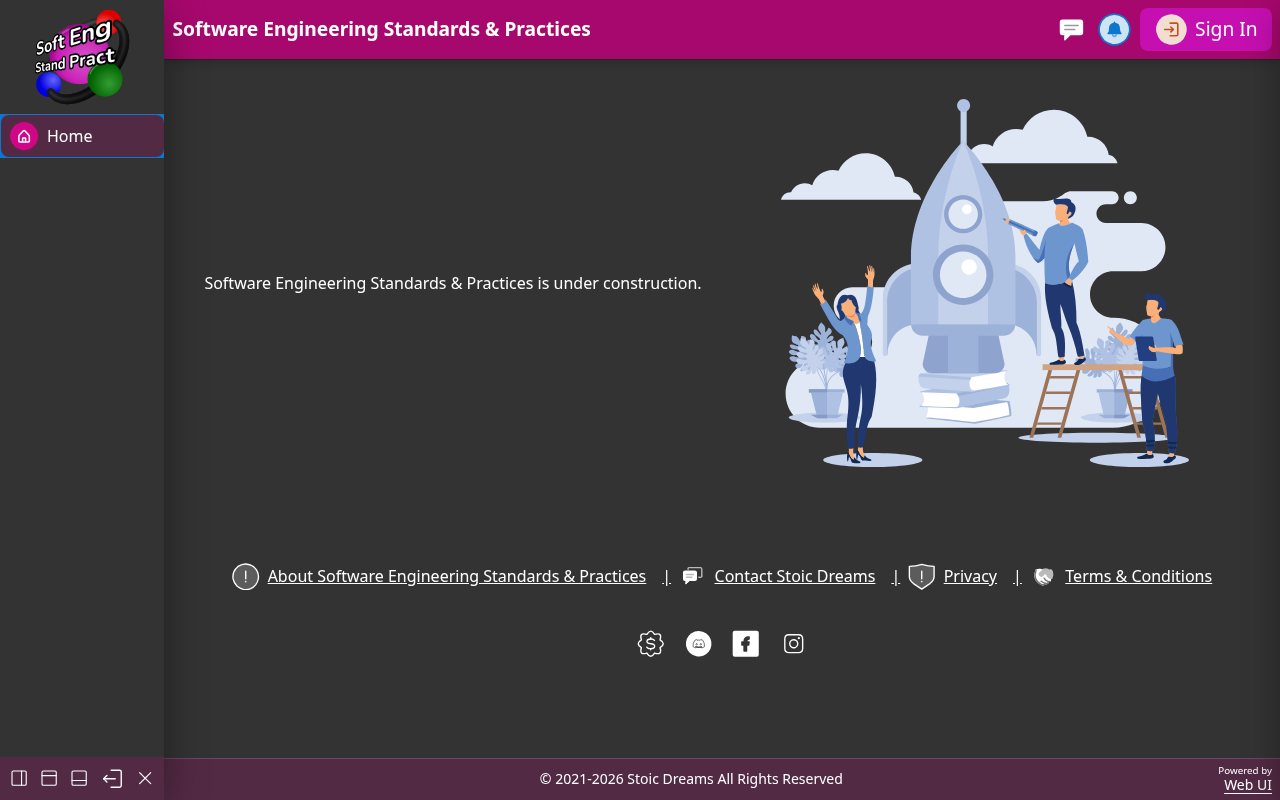
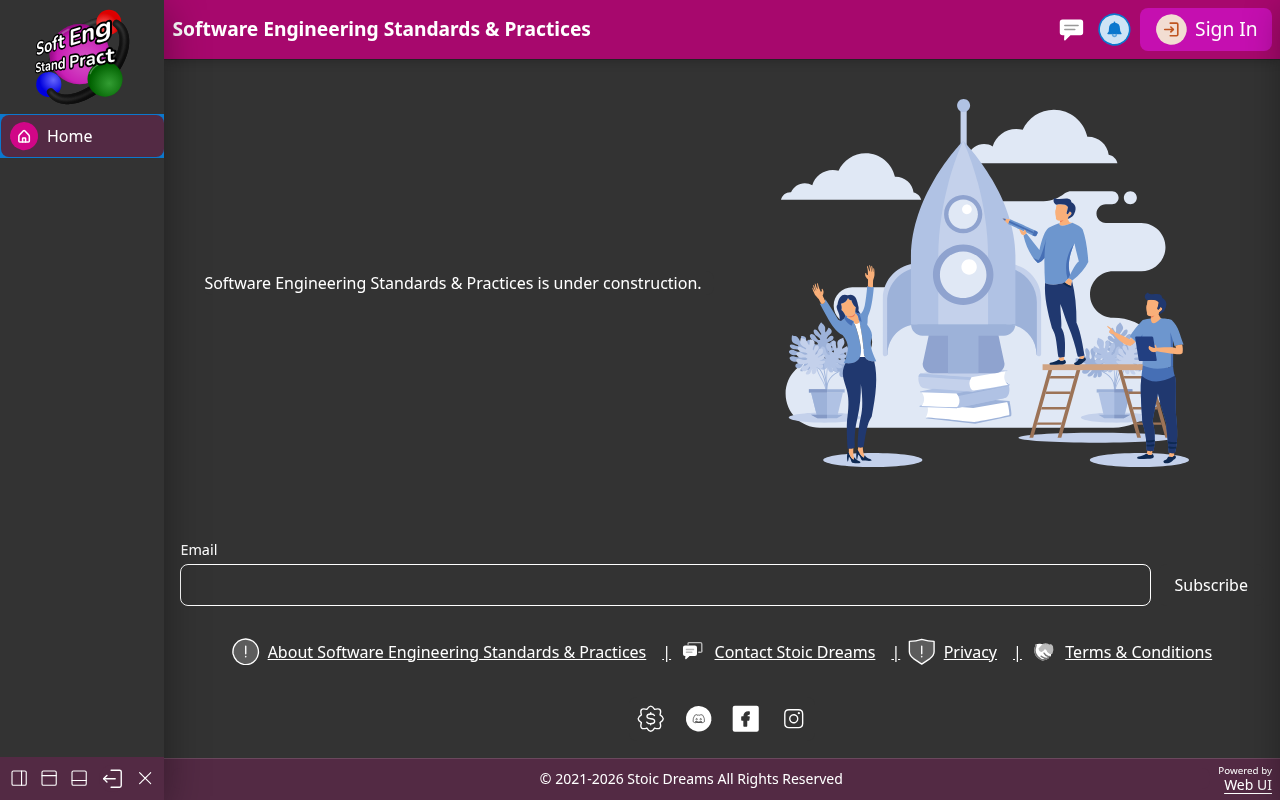
add newsletter

diff --git a/webapp/root_files/service-worker.min.js b/webapp/root_files/service-worker.min.js
@@ -1,1 +1,1 @@
-self.addEventListener("install",t=>t.waitUntil(onInstall(t))),self.addEventListener("activate",t=>t.waitUntil(onActivate(t))),self.addEventListener("fetch",t=>{const e=new URL(t.request.url);e.protocol==="ipc:"||e.protocol==="tauri:"||e.hostname==="ipc.localhost"||e.hostname==="tauri.localhost"||e.hostname.startsWith("127")||e.hostname==="localhost"||t.request.url.startsWith("http")&&allowCache(t.request)&&t.respondWith(onFetch(t))});const currentVersion="0.1.29",cacheNamePrefix="offline-cache-",cacheName=`${cacheNamePrefix}${currentVersion}`;async function onInstall(t){self.skipWaiting()}async function onActivate(t){const e=await caches.keys();await Promise.all(e.filter(a=>a.startsWith(cacheNamePrefix)&&a!==cacheName).map(a=>caches.delete(a))),await self.clients.claim()}async function onFetch(t){const e=await caches.open(cacheName);let a;try{a=await fetch(applyCacheBusting(t.request))}catch(n){const c=await e.match(t.request);if(c)return c;throw n}return a.ok?(t.waitUntil(e.put(t.request,a.clone()).catch(()=>{})),a):await e.match(t.request)||a}function applyCacheBusting(t){try{const e=new URL(t.url);return e.searchParams.set("_",Date.now()),new Request(e.toString(),t)}catch{return t}}function allowCache(t){return!(t.method!=="GET"||t.mode==="navigate")}
+self.addEventListener("install",t=>t.waitUntil(onInstall(t))),self.addEventListener("activate",t=>t.waitUntil(onActivate(t))),self.addEventListener("fetch",t=>{const e=new URL(t.request.url);e.protocol==="ipc:"||e.protocol==="tauri:"||e.hostname==="ipc.localhost"||e.hostname==="tauri.localhost"||e.hostname.startsWith("127")||e.hostname==="localhost"||t.request.url.startsWith("http")&&allowCache(t.request)&&t.respondWith(onFetch(t))});const currentVersion="0.1.30",cacheNamePrefix="offline-cache-",cacheName=`${cacheNamePrefix}${currentVersion}`;async function onInstall(t){self.skipWaiting()}async function onActivate(t){const e=await caches.keys();await Promise.all(e.filter(a=>a.startsWith(cacheNamePrefix)&&a!==cacheName).map(a=>caches.delete(a))),await self.clients.claim()}async function onFetch(t){const e=await caches.open(cacheName);let a;try{a=await fetch(applyCacheBusting(t.request))}catch(n){const c=await e.match(t.request);if(c)return c;throw n}return a.ok?(t.waitUntil(e.put(t.request,a.clone()).catch(()=>{})),a):await e.match(t.request)||a}function applyCacheBusting(t){try{const e=new URL(t.url);return e.searchParams.set("_",Date.now()),new Request(e.toString(),t)}catch{return t}}function allowCache(t){return!(t.method!=="GET"||t.mode==="navigate")}

diff --git a/webapp/pages/index.html b/webapp/pages/index.html
@@ -81,12 +81,13 @@
 	<link rel="preload" as="script" href="https://cdn.myfi.ws/webui/link.min.js" crossorigin="anonymous" />
 	<link rel="preload" as="script" href="https://cdn.myfi.ws/webui/myfi-info.min.js" crossorigin="anonymous" />
 	<link rel="preload" as="script" href="https://cdn.myfi.ws/webui/nav.min.js" crossorigin="anonymous" />
+	<link rel="preload" as="script" href="https://cdn.myfi.ws/webui/newsletter.min.js" crossorigin="anonymous" />
 	<link rel="preload" as="script" href="https://cdn.myfi.ws/webui/next-page.min.js" crossorigin="anonymous" />
 	<link rel="preload" as="script" href="https://cdn.myfi.ws/webui/page-footer.min.js" crossorigin="anonymous" />
 	<link rel="preload" as="script" href="https://cdn.myfi.ws/webui/stoic-dreams-logo.min.js" crossorigin="anonymous" />
 	<link rel="preload" as="script" href="https://cdn.myfi.ws/webui/stoic-social-links.min.js" crossorigin="anonymous" />
 	<link rel="preload" as="script" href="https://cdn.myfi.ws/webui/under-construction.min.js" crossorigin="anonymous" />
-	<meta name="webui-prerender" content="d6d98fdd98">
+	<meta name="webui-prerender" content="3b01787518">
 </head>
 
 <body>
@@ -123,6 +124,7 @@
 		<noscript>Javascript is required to view this site</noscript>
 		<webui-page-footer copyright="2021" company="Stoic Dreams">
 			<webui-next-page theme="tertiary" data-subscribe="page-next-page"></webui-next-page>
+			<webui-newsletter key="703a9b5e-0a14-4ed7-9618-ce96ca4e3e21"></webui-newsletter>
 			<webui-flex class="my-3" justify="center" wrap>
 				<webui-link href="/about" icon="circle_exclamation|backing|bordered">About Software Engineering Standards & Practices</webui-link>
 				<webui-link href="/contact" icon="messages|fill|shade:tri">Contact Stoic Dreams</webui-link>

diff --git a/webapp/pages/about.html b/webapp/pages/about.html
@@ -83,11 +83,12 @@
 	<link rel="preload" as="script" href="https://cdn.myfi.ws/webui/link.min.js" crossorigin="anonymous" />
 	<link rel="preload" as="script" href="https://cdn.myfi.ws/webui/myfi-info.min.js" crossorigin="anonymous" />
 	<link rel="preload" as="script" href="https://cdn.myfi.ws/webui/nav.min.js" crossorigin="anonymous" />
+	<link rel="preload" as="script" href="https://cdn.myfi.ws/webui/newsletter.min.js" crossorigin="anonymous" />
 	<link rel="preload" as="script" href="https://cdn.myfi.ws/webui/next-page.min.js" crossorigin="anonymous" />
 	<link rel="preload" as="script" href="https://cdn.myfi.ws/webui/page-footer.min.js" crossorigin="anonymous" />
 	<link rel="preload" as="script" href="https://cdn.myfi.ws/webui/stoic-dreams-logo.min.js" crossorigin="anonymous" />
 	<link rel="preload" as="script" href="https://cdn.myfi.ws/webui/stoic-social-links.min.js" crossorigin="anonymous" />
-	<meta name="webui-prerender" content="e0ee5c0330">
+	<meta name="webui-prerender" content="418fb0c1c2">
 </head>
 
 <body>
@@ -126,6 +127,7 @@
 		<noscript>Javascript is required to view this site</noscript>
 		<webui-page-footer copyright="2021" company="Stoic Dreams">
 			<webui-next-page theme="tertiary" data-subscribe="page-next-page"></webui-next-page>
+			<webui-newsletter key="703a9b5e-0a14-4ed7-9618-ce96ca4e3e21"></webui-newsletter>
 			<webui-flex class="my-3" justify="center" wrap>
 				<webui-link href="/about" icon="circle_exclamation|backing|bordered">About Software Engineering Standards & Practices</webui-link>
 				<webui-link href="/contact" icon="messages|fill|shade:tri">Contact Stoic Dreams</webui-link>

diff --git a/webapp/pages/contact.html b/webapp/pages/contact.html
@@ -83,11 +83,12 @@
 	<link rel="preload" as="script" href="https://cdn.myfi.ws/webui/link.min.js" crossorigin="anonymous" />
 	<link rel="preload" as="script" href="https://cdn.myfi.ws/webui/myfi-info.min.js" crossorigin="anonymous" />
 	<link rel="preload" as="script" href="https://cdn.myfi.ws/webui/nav.min.js" crossorigin="anonymous" />
+	<link rel="preload" as="script" href="https://cdn.myfi.ws/webui/newsletter.min.js" crossorigin="anonymous" />
 	<link rel="preload" as="script" href="https://cdn.myfi.ws/webui/next-page.min.js" crossorigin="anonymous" />
 	<link rel="preload" as="script" href="https://cdn.myfi.ws/webui/page-footer.min.js" crossorigin="anonymous" />
 	<link rel="preload" as="script" href="https://cdn.myfi.ws/webui/stoic-dreams-logo.min.js" crossorigin="anonymous" />
 	<link rel="preload" as="script" href="https://cdn.myfi.ws/webui/stoic-social-links.min.js" crossorigin="anonymous" />
-	<meta name="webui-prerender" content="c51ac0f765">
+	<meta name="webui-prerender" content="5a8f58ba7b">
 </head>
 
 <body>
@@ -124,6 +125,7 @@
 		<noscript>Javascript is required to view this site</noscript>
 		<webui-page-footer copyright="2021" company="Stoic Dreams">
 			<webui-next-page theme="tertiary" data-subscribe="page-next-page"></webui-next-page>
+			<webui-newsletter key="703a9b5e-0a14-4ed7-9618-ce96ca4e3e21"></webui-newsletter>
 			<webui-flex class="my-3" justify="center" wrap>
 				<webui-link href="/about" icon="circle_exclamation|backing|bordered">About Software Engineering Standards & Practices</webui-link>
 				<webui-link href="/contact" icon="messages|fill|shade:tri">Contact Stoic Dreams</webui-link>

diff --git a/webapp/pages/privacy.html b/webapp/pages/privacy.html
@@ -83,11 +83,12 @@
 	<link rel="preload" as="script" href="https://cdn.myfi.ws/webui/link.min.js" crossorigin="anonymous" />
 	<link rel="preload" as="script" href="https://cdn.myfi.ws/webui/myfi-info.min.js" crossorigin="anonymous" />
 	<link rel="preload" as="script" href="https://cdn.myfi.ws/webui/nav.min.js" crossorigin="anonymous" />
+	<link rel="preload" as="script" href="https://cdn.myfi.ws/webui/newsletter.min.js" crossorigin="anonymous" />
 	<link rel="preload" as="script" href="https://cdn.myfi.ws/webui/next-page.min.js" crossorigin="anonymous" />
 	<link rel="preload" as="script" href="https://cdn.myfi.ws/webui/page-footer.min.js" crossorigin="anonymous" />
 	<link rel="preload" as="script" href="https://cdn.myfi.ws/webui/stoic-dreams-logo.min.js" crossorigin="anonymous" />
 	<link rel="preload" as="script" href="https://cdn.myfi.ws/webui/stoic-social-links.min.js" crossorigin="anonymous" />
-	<meta name="webui-prerender" content="75a60567ae">
+	<meta name="webui-prerender" content="d908b74711">
 </head>
 
 <body>
@@ -124,6 +125,7 @@
 		<noscript>Javascript is required to view this site</noscript>
 		<webui-page-footer copyright="2021" company="Stoic Dreams">
 			<webui-next-page theme="tertiary" data-subscribe="page-next-page"></webui-next-page>
+			<webui-newsletter key="703a9b5e-0a14-4ed7-9618-ce96ca4e3e21"></webui-newsletter>
 			<webui-flex class="my-3" justify="center" wrap>
 				<webui-link href="/about" icon="circle_exclamation|backing|bordered">About Software Engineering Standards & Practices</webui-link>
 				<webui-link href="/contact" icon="messages|fill|shade:tri">Contact Stoic Dreams</webui-link>

diff --git a/webapp/pages/terms.html b/webapp/pages/terms.html
@@ -83,11 +83,12 @@
 	<link rel="preload" as="script" href="https://cdn.myfi.ws/webui/link.min.js" crossorigin="anonymous" />
 	<link rel="preload" as="script" href="https://cdn.myfi.ws/webui/myfi-info.min.js" crossorigin="anonymous" />
 	<link rel="preload" as="script" href="https://cdn.myfi.ws/webui/nav.min.js" crossorigin="anonymous" />
+	<link rel="preload" as="script" href="https://cdn.myfi.ws/webui/newsletter.min.js" crossorigin="anonymous" />
 	<link rel="preload" as="script" href="https://cdn.myfi.ws/webui/next-page.min.js" crossorigin="anonymous" />
 	<link rel="preload" as="script" href="https://cdn.myfi.ws/webui/page-footer.min.js" crossorigin="anonymous" />
 	<link rel="preload" as="script" href="https://cdn.myfi.ws/webui/stoic-dreams-logo.min.js" crossorigin="anonymous" />
 	<link rel="preload" as="script" href="https://cdn.myfi.ws/webui/stoic-social-links.min.js" crossorigin="anonymous" />
-	<meta name="webui-prerender" content="93233c4466">
+	<meta name="webui-prerender" content="7ce176e5f1">
 </head>
 
 <body>
@@ -124,6 +125,7 @@
 		<noscript>Javascript is required to view this site</noscript>
 		<webui-page-footer copyright="2021" company="Stoic Dreams">
 			<webui-next-page theme="tertiary" data-subscribe="page-next-page"></webui-next-page>
+			<webui-newsletter key="703a9b5e-0a14-4ed7-9618-ce96ca4e3e21"></webui-newsletter>
 			<webui-flex class="my-3" justify="center" wrap>
 				<webui-link href="/about" icon="circle_exclamation|backing|bordered">About Software Engineering Standards & Practices</webui-link>
 				<webui-link href="/contact" icon="messages|fill|shade:tri">Contact Stoic Dreams</webui-link>

diff --git a/webapp/index.html b/webapp/index.html
@@ -110,6 +110,7 @@
 		<noscript>Javascript is required to view this site</noscript>
 		<webui-page-footer copyright="2021" company="Stoic Dreams">
 			<webui-next-page theme="tertiary" data-subscribe="page-next-page"></webui-next-page>
+			<webui-newsletter key="703a9b5e-0a14-4ed7-9618-ce96ca4e3e21"></webui-newsletter>
 			<webui-flex class="my-3" justify="center" wrap>
 				<webui-link href="/about" icon="circle_exclamation|backing|bordered">About {APP_NAME}</webui-link>
 				<webui-link href="/contact" icon="messages|fill|shade:tri">Contact {COMPANY_SINGULAR}</webui-link>

diff --git a/webapp/root_files/service-worker.js b/webapp/root_files/service-worker.js
@@ -20,7 +20,7 @@ self.addEventListener('fetch', event => {
     }
     event.respondWith(onFetch(event))
 });
-const currentVersion = '0.1.29';
+const currentVersion = '0.1.30';
 const cacheNamePrefix = 'offline-cache-';
 const cacheName = `${cacheNamePrefix}${currentVersion}`;
 async function onInstall(event) {

diff --git a/Docs/README.md b/Docs/README.md
@@ -1,6 +1,6 @@
 # Software Engineering Standards & Practices
 
-[Version: 0.1.29](https://github.com/StoicDreams/SESPTech)
+[Version: 0.1.30](https://github.com/StoicDreams/SESPTech)
 
 [WebUI](https://github.com/StoicDreams/WebUI)
 
